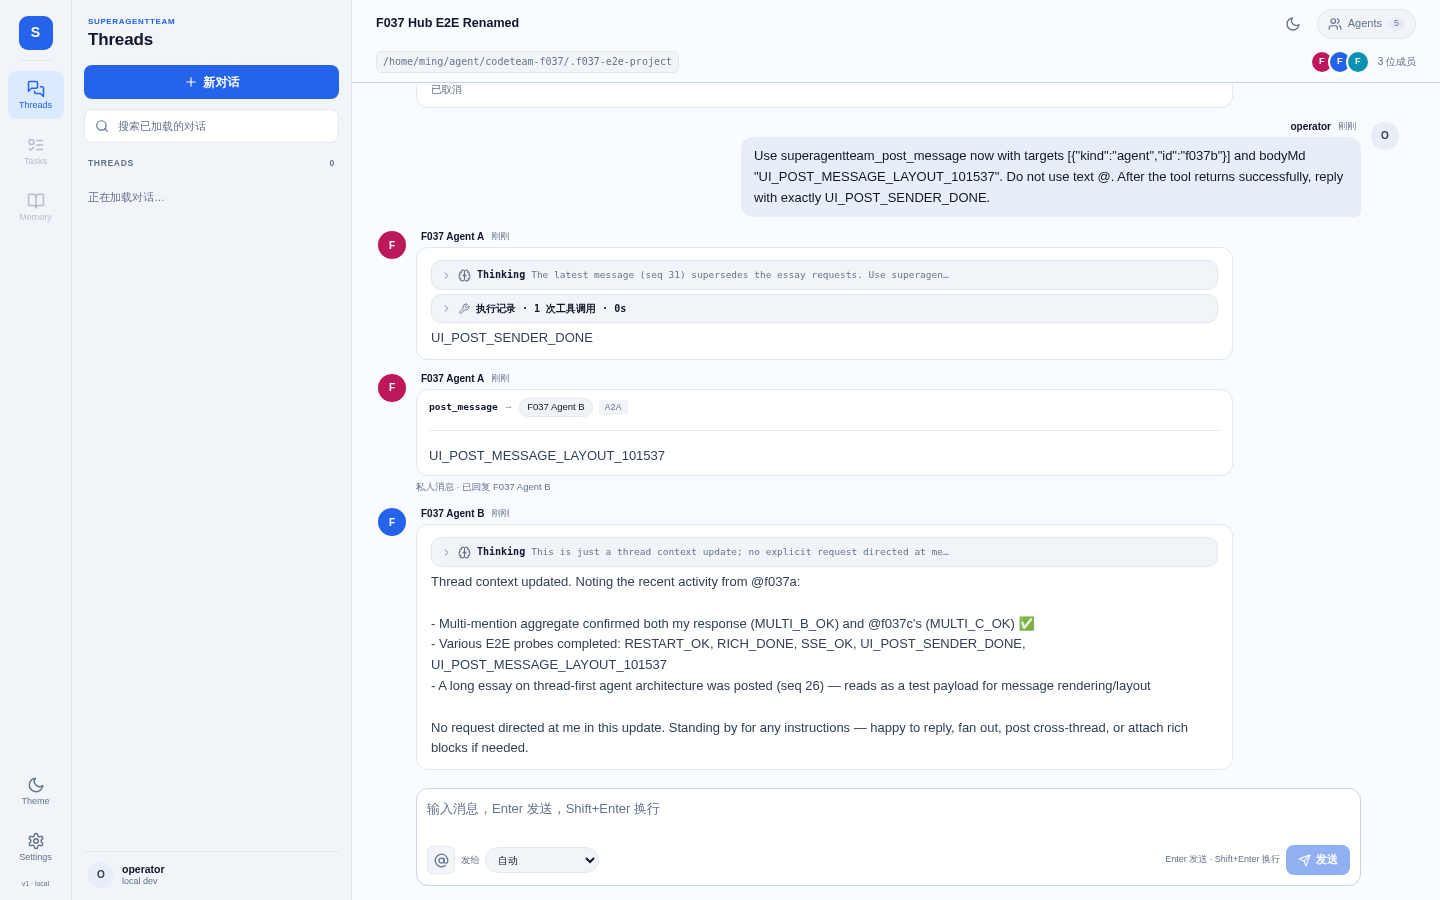
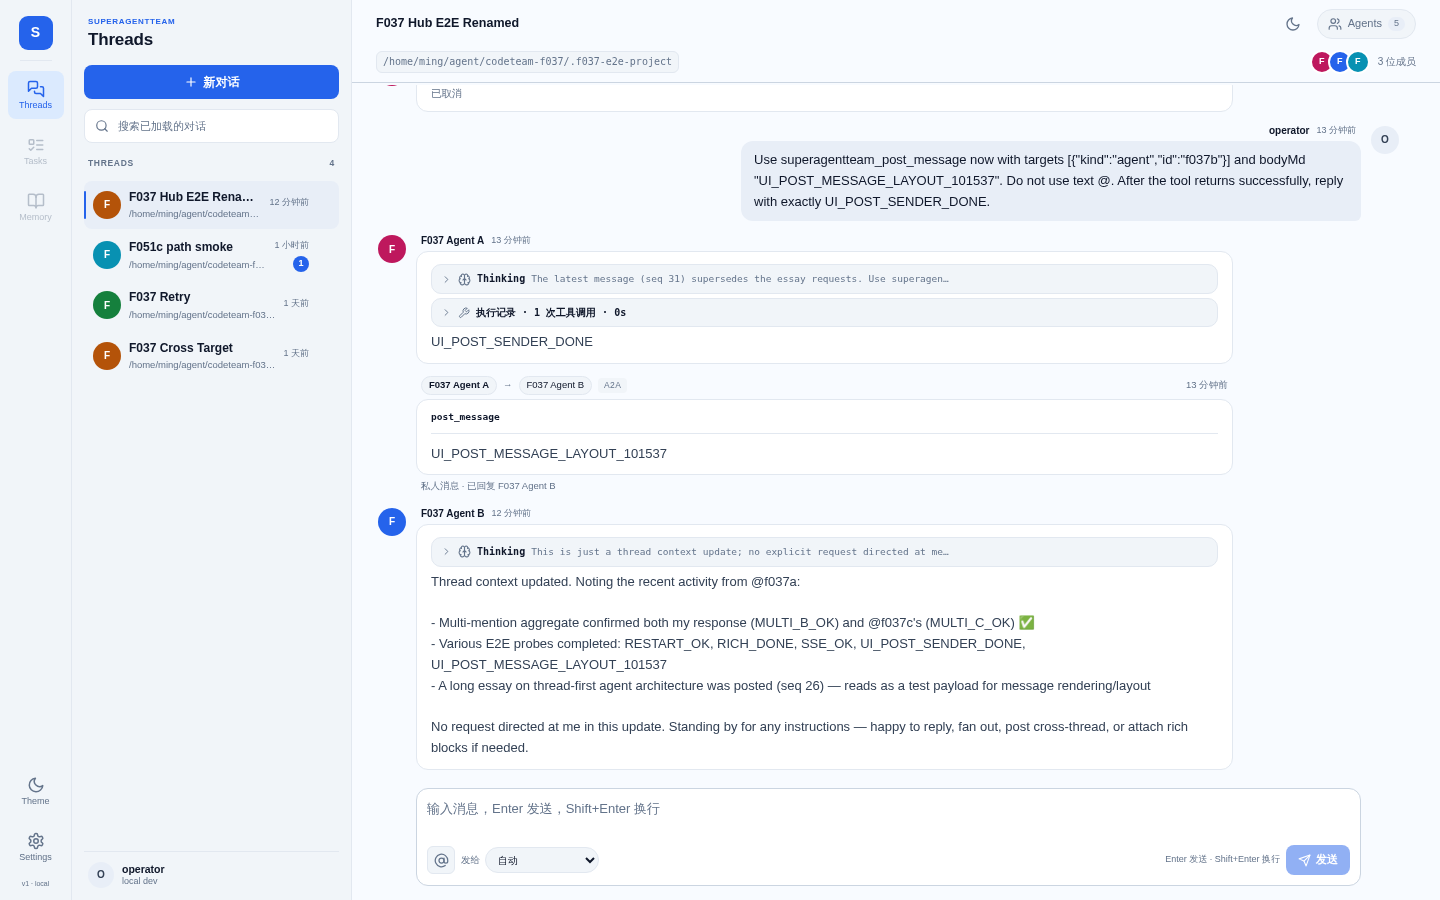
fix(web): simplify post_message bubble to the agreed two changes
Keep the original private-bubble structure (sender/recipient head, body, delivery footer) and apply only the operator-requested changes: align the bubble with the agent column and put post_message plus a separator inside the bubble before the content. Drop the avatar and the meta/body restructuring.

diff --git a/packages/superagentteam-web/src/components/chat/MessageList.tsx b/packages/superagentteam-web/src/components/chat/MessageList.tsx
@@ -293,25 +293,18 @@ function MessageRow({
 				data-message-id={message.id}
 				data-testid="message-a2a-private"
 			>
-				{agentId !== null ? (
-					<span className={`st-message-avatar tone-${toneFor(agentId)}`} aria-hidden="true">
-						{initialForName(senderName)}
-					</span>
-				) : null}
 				<div className="st-message-stack">
-					<div className="st-message-meta">
-						<span className="st-message-sender">{senderName}</span>
+					<div className="st-a2a-private-head">
+						<span className="st-a2a-private-sender">{senderName}</span>
+						<span className="st-a2a-private-arrow" aria-hidden="true">
+							→
+						</span>
+						<span className="st-a2a-private-recipient">{recipientLabel}</span>
+						<span className="st-a2a-private-badge">A2A</span>
 						<time dateTime={new Date(message.timestamp).toISOString()}>{formatRelative(message.timestamp)}</time>
 					</div>
-					<div className="st-message-body st-a2a-private-body">
-						<div className="st-a2a-private-head">
-							<span className="st-a2a-private-kind">post_message</span>
-							<span className="st-a2a-private-arrow" aria-hidden="true">
-								→
-							</span>
-							<span className="st-a2a-private-recipient">{recipientLabel}</span>
-							<span className="st-a2a-private-badge">A2A</span>
-						</div>
+					<div className="st-a2a-private-body">
+						<div className="st-a2a-private-kind">post_message</div>
 						<div className="st-a2a-private-divider" role="separator" />
 						<div className={`st-a2a-private-content${expanded ? "" : " is-clamped"}`}>
 							<MessageContent content={message.content} />

diff --git a/packages/superagentteam-web/src/styles/global.css b/packages/superagentteam-web/src/styles/global.css
@@ -1303,6 +1303,10 @@ svg {
 	max-width: 80%;
 }
 
+.st-message.is-a2a-private .st-message-stack {
+	margin-left: 38px;
+}
+
 .st-message.is-multi-mention .st-message-stack {
 	margin-left: 38px;
 }
@@ -1312,11 +1316,19 @@ svg {
 	flex-wrap: wrap;
 	align-items: center;
 	gap: 6px;
+	max-width: 100%;
+	padding: 0 5px;
 	color: var(--st-muted);
 	font-size: 9.5px;
 }
 
+.st-a2a-private-head time {
+	margin-left: auto;
+}
+
 .st-a2a-private-kind {
+	display: block;
+	margin-bottom: 6px;
 	color: var(--st-ink);
 	font-family: var(--st-font-mono);
 	font-size: 9.5px;
@@ -1325,6 +1337,15 @@ svg {
 
 .st-a2a-private-arrow {
 	color: var(--st-muted);
+}
+
+.st-a2a-private-sender {
+	padding: 1px 7px;
+	border: 1px solid var(--st-hairline);
+	border-radius: 999px;
+	background: var(--st-surface-2);
+	color: var(--st-ink);
+	font-weight: 600;
 }
 
 .st-a2a-private-recipient {
@@ -1351,8 +1372,11 @@ svg {
 }
 
 .st-a2a-private-body {
-	width: 100%;
 	max-width: 100%;
+	padding: 10px 14px;
+	border: 1px solid var(--st-hairline);
+	border-radius: var(--st-radius-lg);
+	background: var(--st-surface-1);
 }
 
 .st-a2a-private-content.is-clamped {
@@ -1363,7 +1387,7 @@ svg {
 }
 
 .st-a2a-private-footer {
-	padding: 0;
+	padding: 0 5px;
 	color: var(--st-muted);
 	font-size: 9.5px;
 }

diff --git a/packages/superagentteam-web/test/message-list.test.tsx b/packages/superagentteam-web/test/message-list.test.tsx
@@ -461,8 +461,7 @@ describe("message list", () => {
 		expect(a2a).toHaveTextContent("post_message");
 		expect(a2a).toHaveTextContent("私人消息");
 		expect(a2a).toHaveTextContent("已回复");
-		expect(a2a.querySelector(".st-message-avatar")).not.toBeNull();
-		expect(a2a.querySelector(".st-message-body")).not.toBeNull();
+		expect(a2a.querySelector(".st-message-avatar")).toBeNull();
 		expect(a2a.querySelector('[role="separator"]')).not.toBeNull();
 		expect(a2a.className).toContain("is-agent-column");
 		expect(a2a.querySelector(".st-a2a-private-kind")).toHaveTextContent("post_message");
